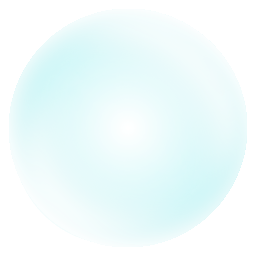
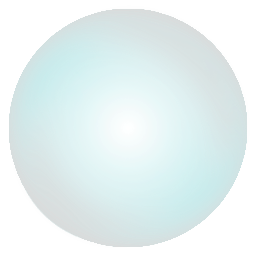
reduced bubble shield brightness

diff --git a/src/ecs/systems/map_system.cpp b/src/ecs/systems/map_system.cpp
@@ -564,8 +564,8 @@ void MapSystem::newMap(MapRegion region, RoomType roomType)
             }
             else if (map.currRegion == Mining) {
                 std::vector<RoomPreset> miningBossRooms = {BossRoomMole, BossRoomWorm};
-                map.currRoom.preset = MedicalEnemyRoomWares;
-                // map.currRoom.preset = MiningEnemyRoomCloakedMoles;
+                map.currRoom.preset = Random::ListItem( miningBossRooms);
+                // map.currRoom.preset = MedicalEnemyRoomWares;
             }
             else if (map.currRegion == Medical) {
                  map.currRoom.preset = ScientistBossRoom;
